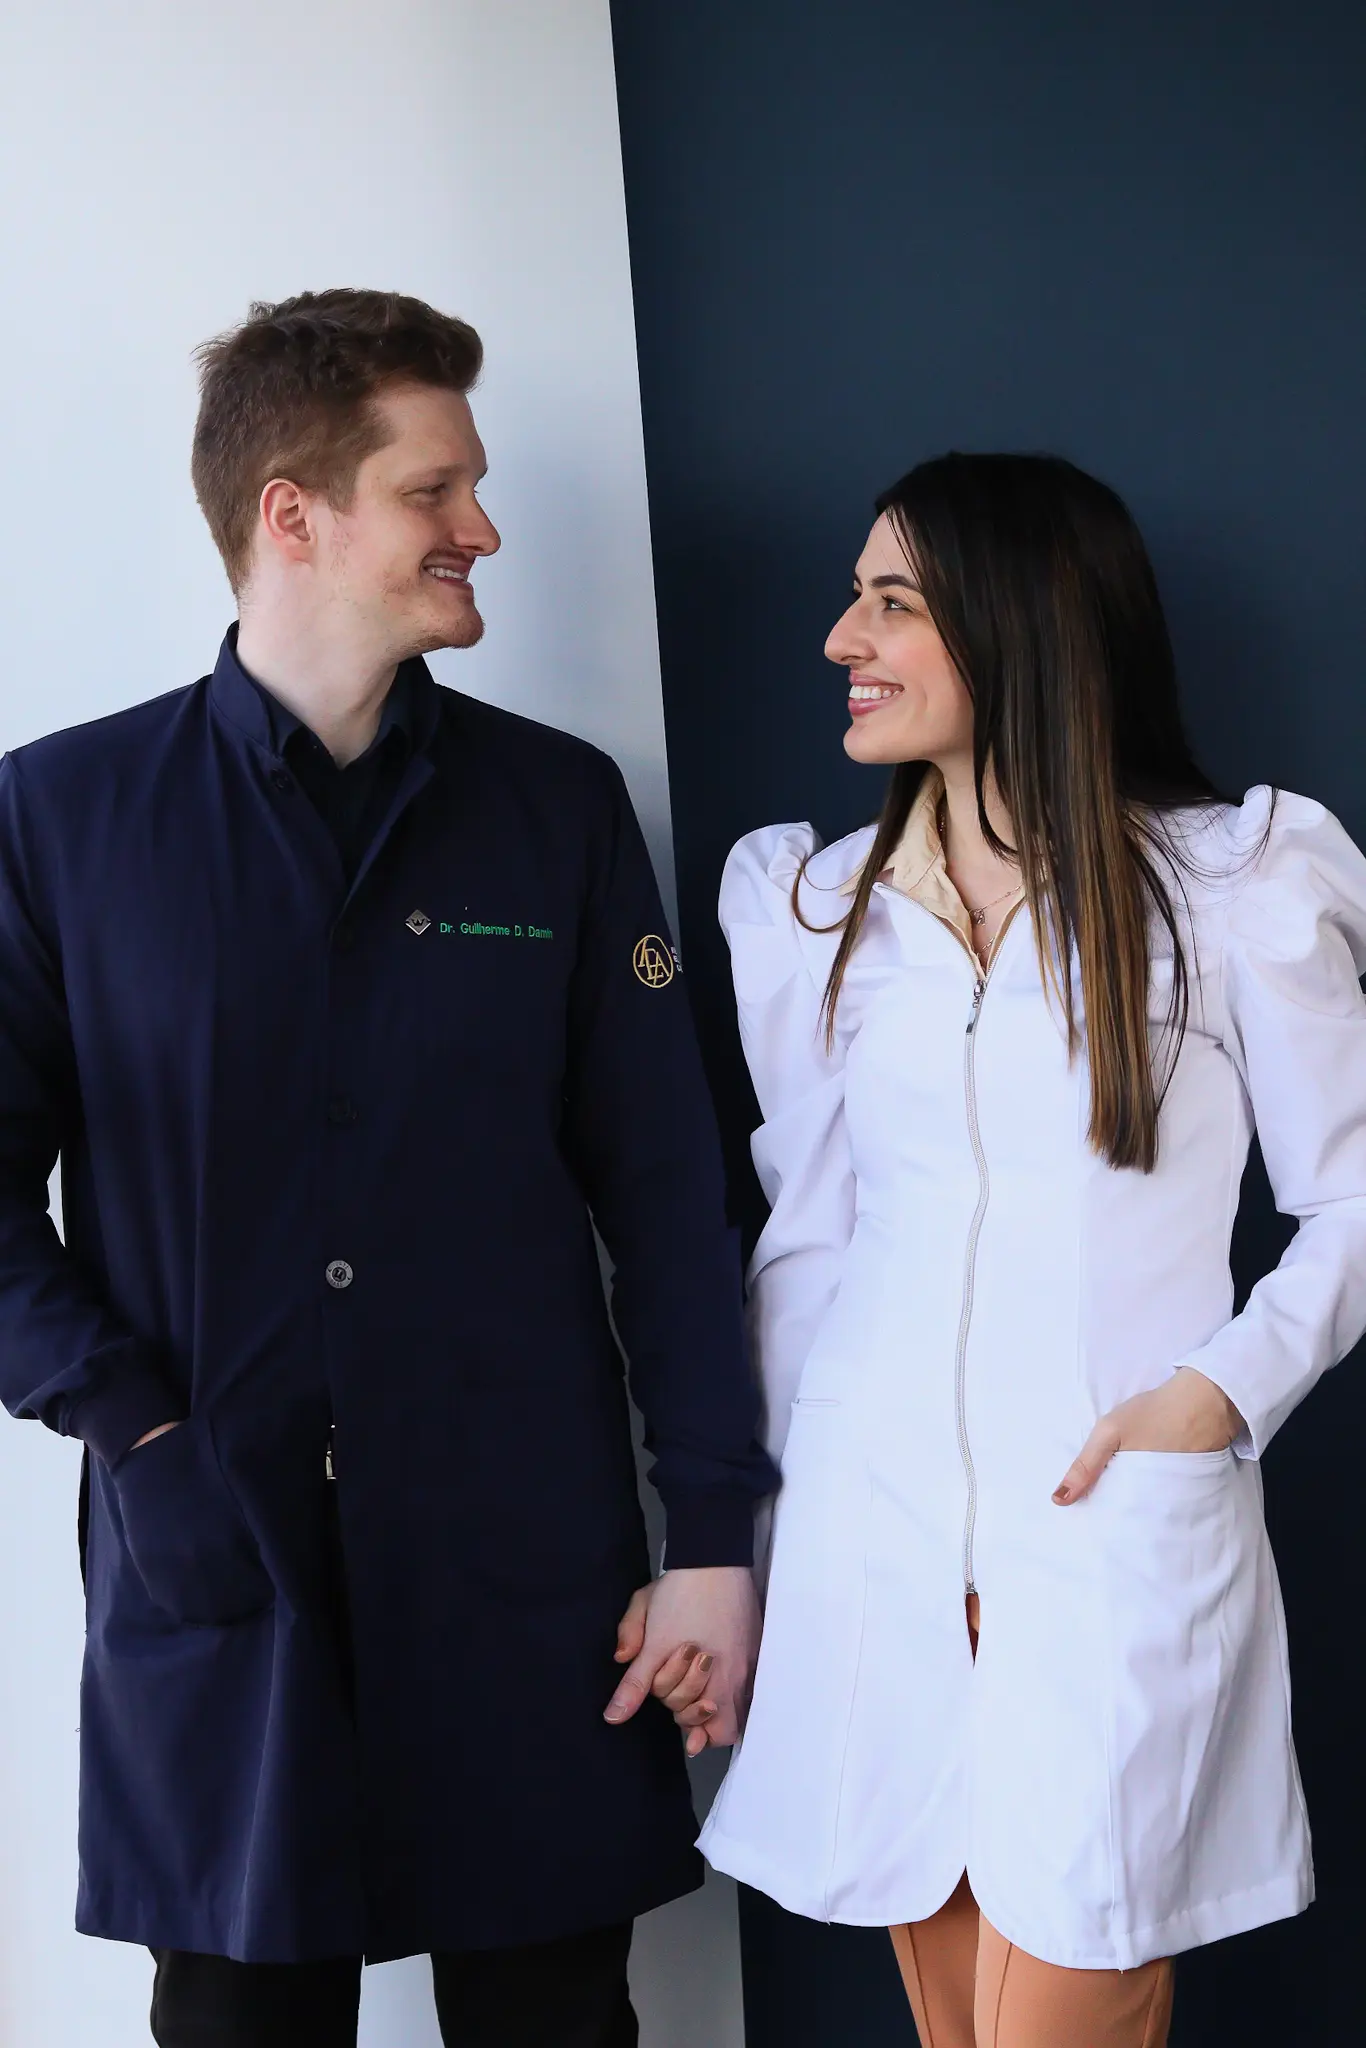
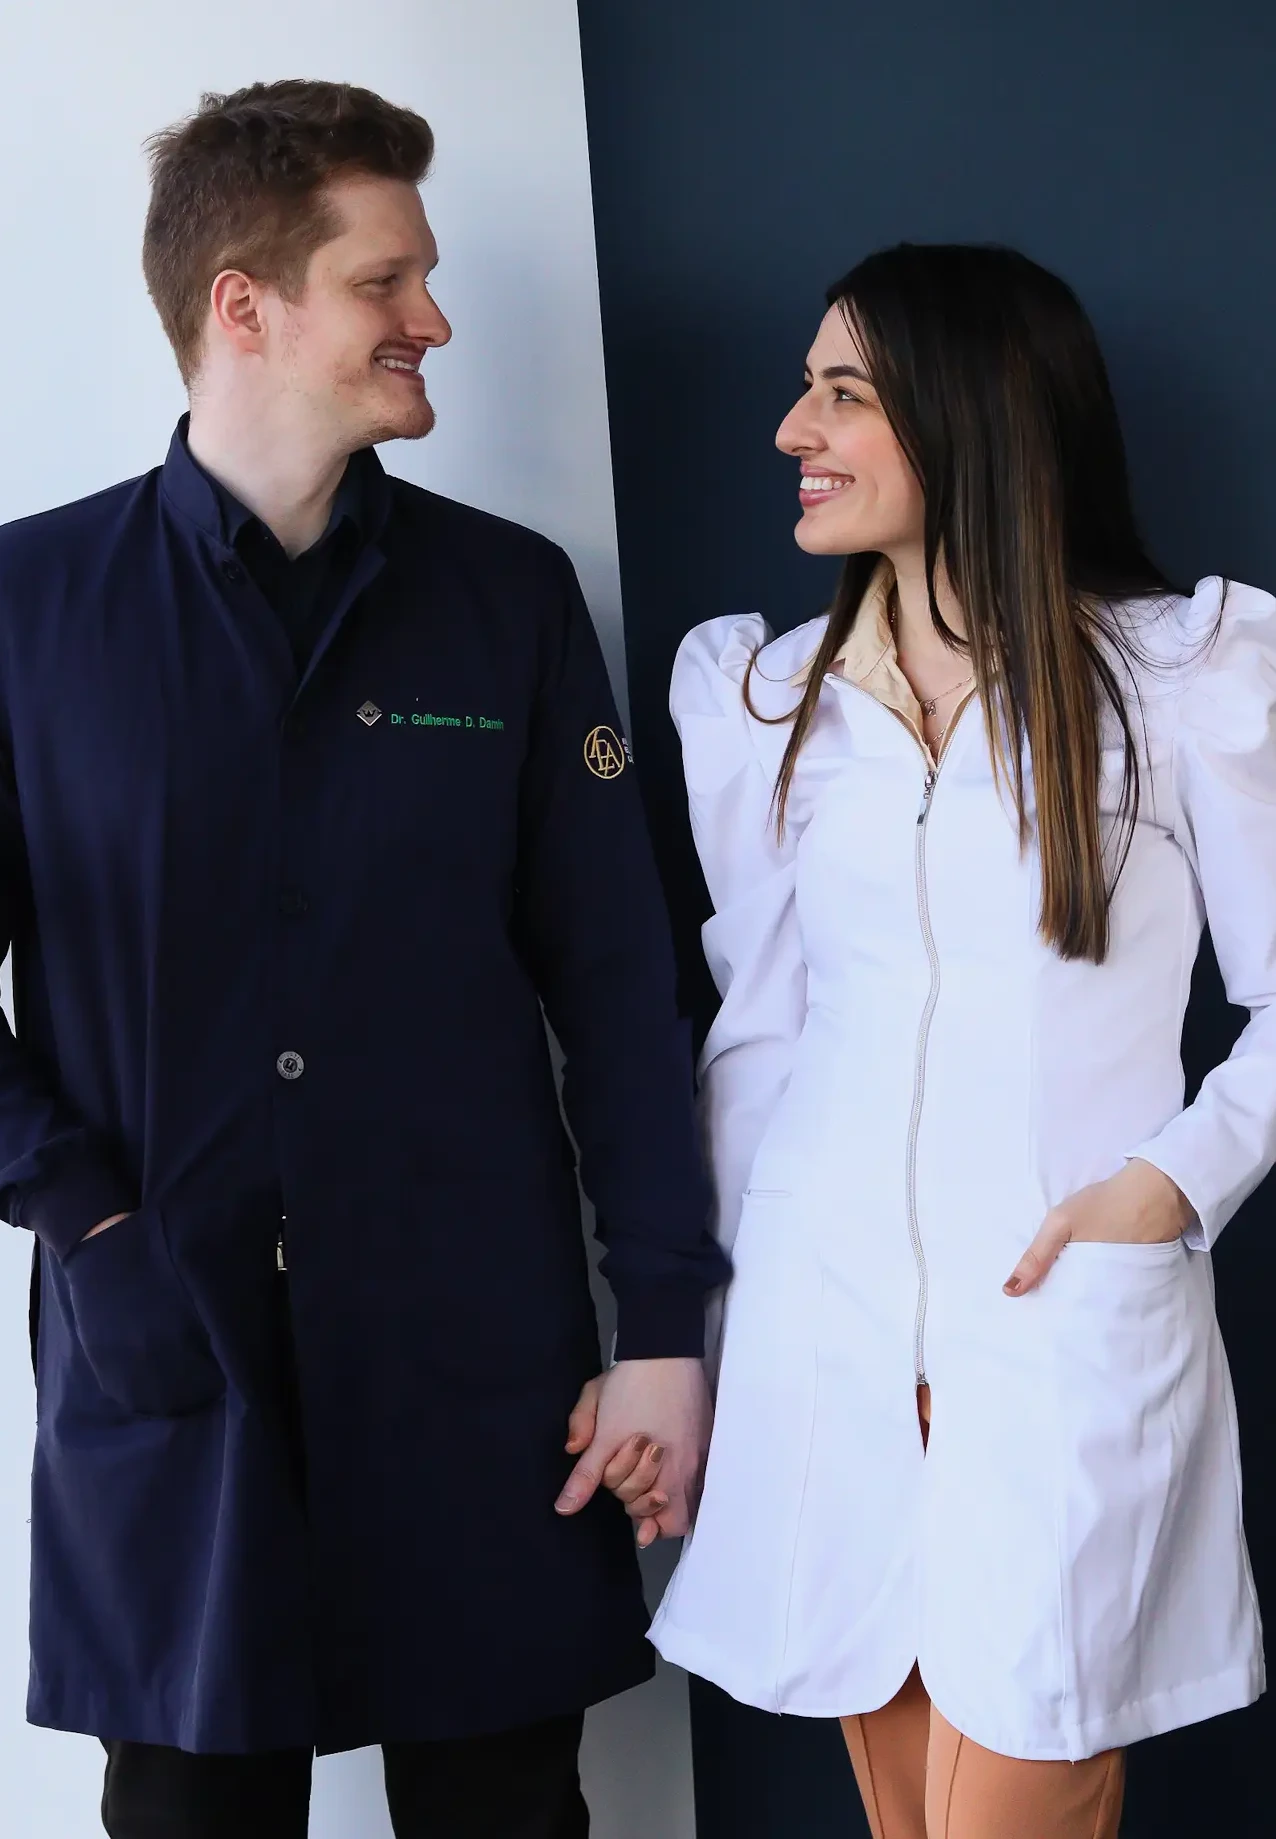
:grin: Dossin Odontologia Update: random about and hero images

diff --git a/index.html b/index.html
@@ -117,21 +117,21 @@
         <div id="hero-carousel" class="carousel slide carousel-fade" data-bs-ride="carousel" data-bs-interval="5000">
 
           <div class="carousel-item active">
-            <img src="assets/img/hero-carousel/329-1.jpg" alt="" class="img-zoom-out">
+            <img src="assets/img/hero-carousel/329.webp" alt="" class="img-zoom-out carousel-random" style="object-position: 50% 10%;">
             <div class="container container-hero">
               <a href="#sobre-nos" class="btn-get-started">Sobre Nós</a>
             </div>
           </div><!-- End Carousel Item -->
 
           <div class="carousel-item">
-            <img src="assets/img/hero-carousel/314-1.jpg" alt="" class="img-zoom-out" loading="lazy">
+            <img src="assets/img/hero-carousel/314-1.webp" alt="" class="img-zoom-out carousel-random" loading="lazy">
             <div class="container">
               <a href="#estetica" class="btn-get-started">Estética</a>
             </div>
           </div><!-- End Carousel Item -->
 
           <div class="carousel-item">
-            <img src="assets/img/hero-carousel/326.jpg" alt="" class="img-zoom-out">
+            <img src="assets/img/hero-carousel/326.jpg" alt="" class="img-zoom-out carousel-random">
             <div class="container">
               <a href="#onde-estamos" class="btn-get-started">Onde Estamos</a>
             </div>
@@ -244,7 +244,7 @@
 
           <div class="row gy-4 row-missao">
             <div class="col-lg-6 position-relative align-self-start" data-aos="fade-up" data-aos-delay="100">
-              <img src="assets/img/hero-carousel/mari-dente.webp" class="img-fluid img-sobre" alt="Foto de lentes de resina"
+              <img src="assets/img/hero-carousel/mari-dente.webp" class="img-fluid img-sobre  about-random" alt="Foto de lentes de resina"
                 style="height: 36rem;">
             </div>
             <div class="col-lg-6 content" data-aos="fade-up" data-aos-delay="200">
@@ -356,7 +356,8 @@
 
           <div class="row justify-content-around gy-4 row-features">
             <div class="features-image col-lg-6" data-aos="fade-up" data-aos-delay="100"><img
-                src="assets/img/doctors/322.jpg" alt="Foto mulher sorrindo de chapéu" loading="lazy"></div>
+                src="assets/img/doctors/322.jpg" alt="Foto mulher sorrindo de chapéu" loading="lazy"
+                  style="object-position: 50% 15%;"></div>
 
             <div class="col-lg-5 d-flex flex-column justify-content-center" data-aos="fade-up" data-aos-delay="200">
               <h3>Diferenciais</h3>
@@ -596,7 +597,7 @@
                       </p>
                     </div>
                     <div class="col-lg-4 text-center order-1 order-lg-2">
-                      <img src="assets/img/estetica/labio.jpg"
+                      <img src="assets/img/estetica/est1.webp"
                         alt="Foto de Pessoa com lábios volumosos e  preenchidos pelo procedimento"
                         class="img-fluid fotos-estetica" loading="lazy">
                     </div>
@@ -627,7 +628,7 @@
                       </p>
                     </div>
                     <div class="col-lg-4 text-center order-1 order-lg-2">
-                      <img src="assets/img/estetica/pele.jpg"
+                      <img src="assets/img/estetica/est5.webp"
                         alt="Foto de pessoa na cadeira de estética após microagulhamento"
                         class="img-fluid fotos-estetica" loading="lazy">
                     </div>
@@ -658,7 +659,7 @@
                       </p>
                     </div>
                     <div class="col-lg-4 text-center order-1 order-lg-2">
-                      <img src="assets/img/estetica/neuromodulador.webp"
+                      <img src="assets/img/estetica/est4.webp"
                         alt="Foto de pessoa na cadeira de estética após aplicação de  " class="img-fluid fotos-estetica"
                         loading="lazy">
                     </div>

diff --git a/assets/js/main.js b/assets/js/main.js
@@ -150,7 +150,7 @@
             top: section.offsetTop - parseInt(scrollMarginTop),
             behavior: 'smooth'
           });
-        }, 100); 
+        }, 100);
       }
     }
   });
@@ -187,6 +187,40 @@ function copyToClipboard(text) {
     console.error('Erro ao copiar o texto: ', err);
   });
 }
+// Random Image for About Section
+function randomizeAboutImage() {
+  const images = [
+    'assets/img/hero-carousel/mari-dente.webp',
+    'assets/img/doctors/312.webp',
+    'assets/img/doctors/320.webp',
+    'assets/img/hero-carousel/329.webp'
+  ];
+
+  const randomImg = images[Math.floor(Math.random() * images.length)];
+  const imgElement = document.querySelector('.about-random');
+
+  if (imgElement) {
+    imgElement.src = randomImg;
+  }
+}
+
+// Random Image for Carousel
+function randomizeCarouselImages() {
+  const carouselImages = [
+    'assets/img/hero-carousel/329.webp',
+    'assets/img/hero-carousel/314-1.webp',
+    'assets/img/hero-carousel/326.jpg',
+    'assets/img/hero-carousel/mari-dente.webp',
+    'assets/img/doctors/312.webp',
+    'assets/img/doctors/320.webp'
+  ];
+
+  document.querySelectorAll('.carousel-random').forEach(imgElement => {
+    const randomImg = carouselImages[Math.floor(Math.random() * carouselImages.length)];
+    imgElement.src = randomImg;
+  });
+}
+
 // Loader
 var i = setInterval(function () {
   clearInterval(i);
@@ -194,5 +228,9 @@ var i = setInterval(function () {
   // The desired code is only this:
   document.getElementById("loading").style.display = "none";
   document.getElementById("content").style.display = "block";
+
+  // Initialize random images after content is displayed
+  randomizeAboutImage();
+    randomizeCarouselImages();
 
 }, 2500);

diff --git a/assets/css/main.css b/assets/css/main.css
@@ -1991,7 +1991,7 @@ section,
 
 @keyframes zoomOutEffect {
   0% {
-    transform: scale(1.1);
+    transform: scale(1.02);
   }
 
   50% {
@@ -1999,7 +1999,7 @@ section,
   }
 
   100% {
-    transform: scale(1.1); /* Volta ao tamanho normal */
+    transform: scale(1.02); /* Volta ao tamanho normal */
   }
 }
 
@@ -2044,6 +2044,8 @@ section,
 
 .fotos-estetica {
   width: 16rem;
+  height: 19rem;
+  object-fit: cover;
   border-radius: 3%;
 }
 
